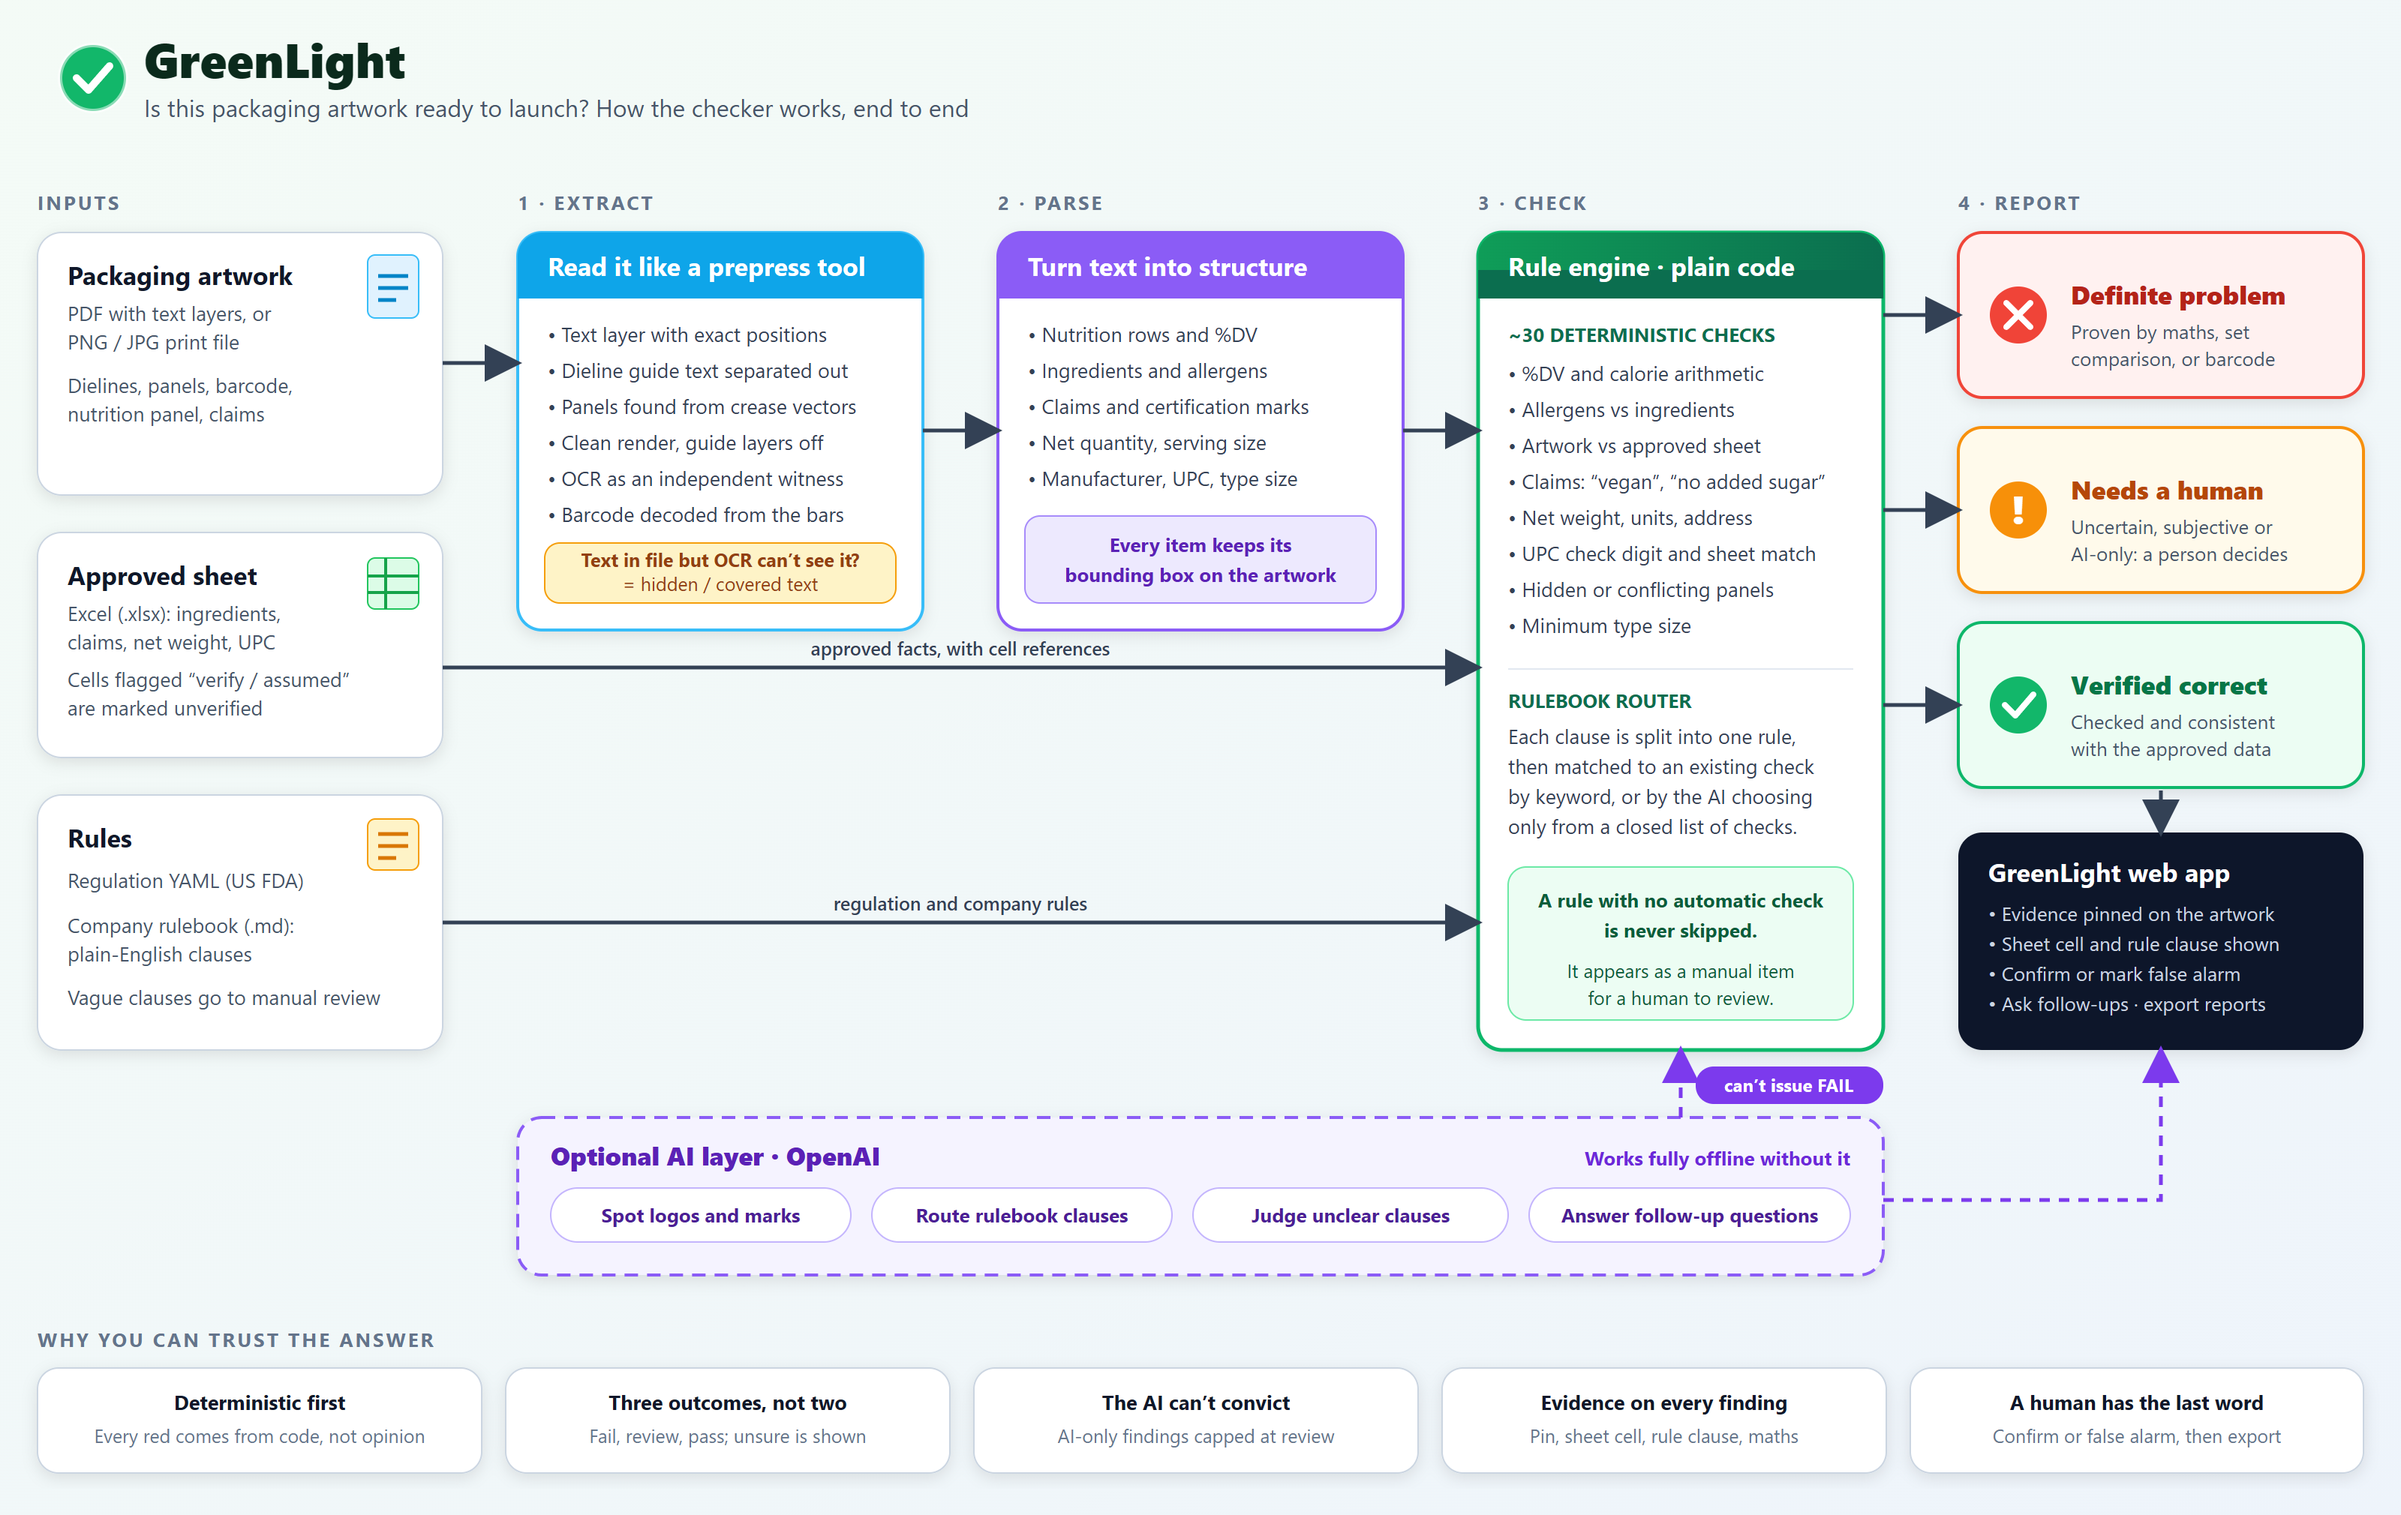
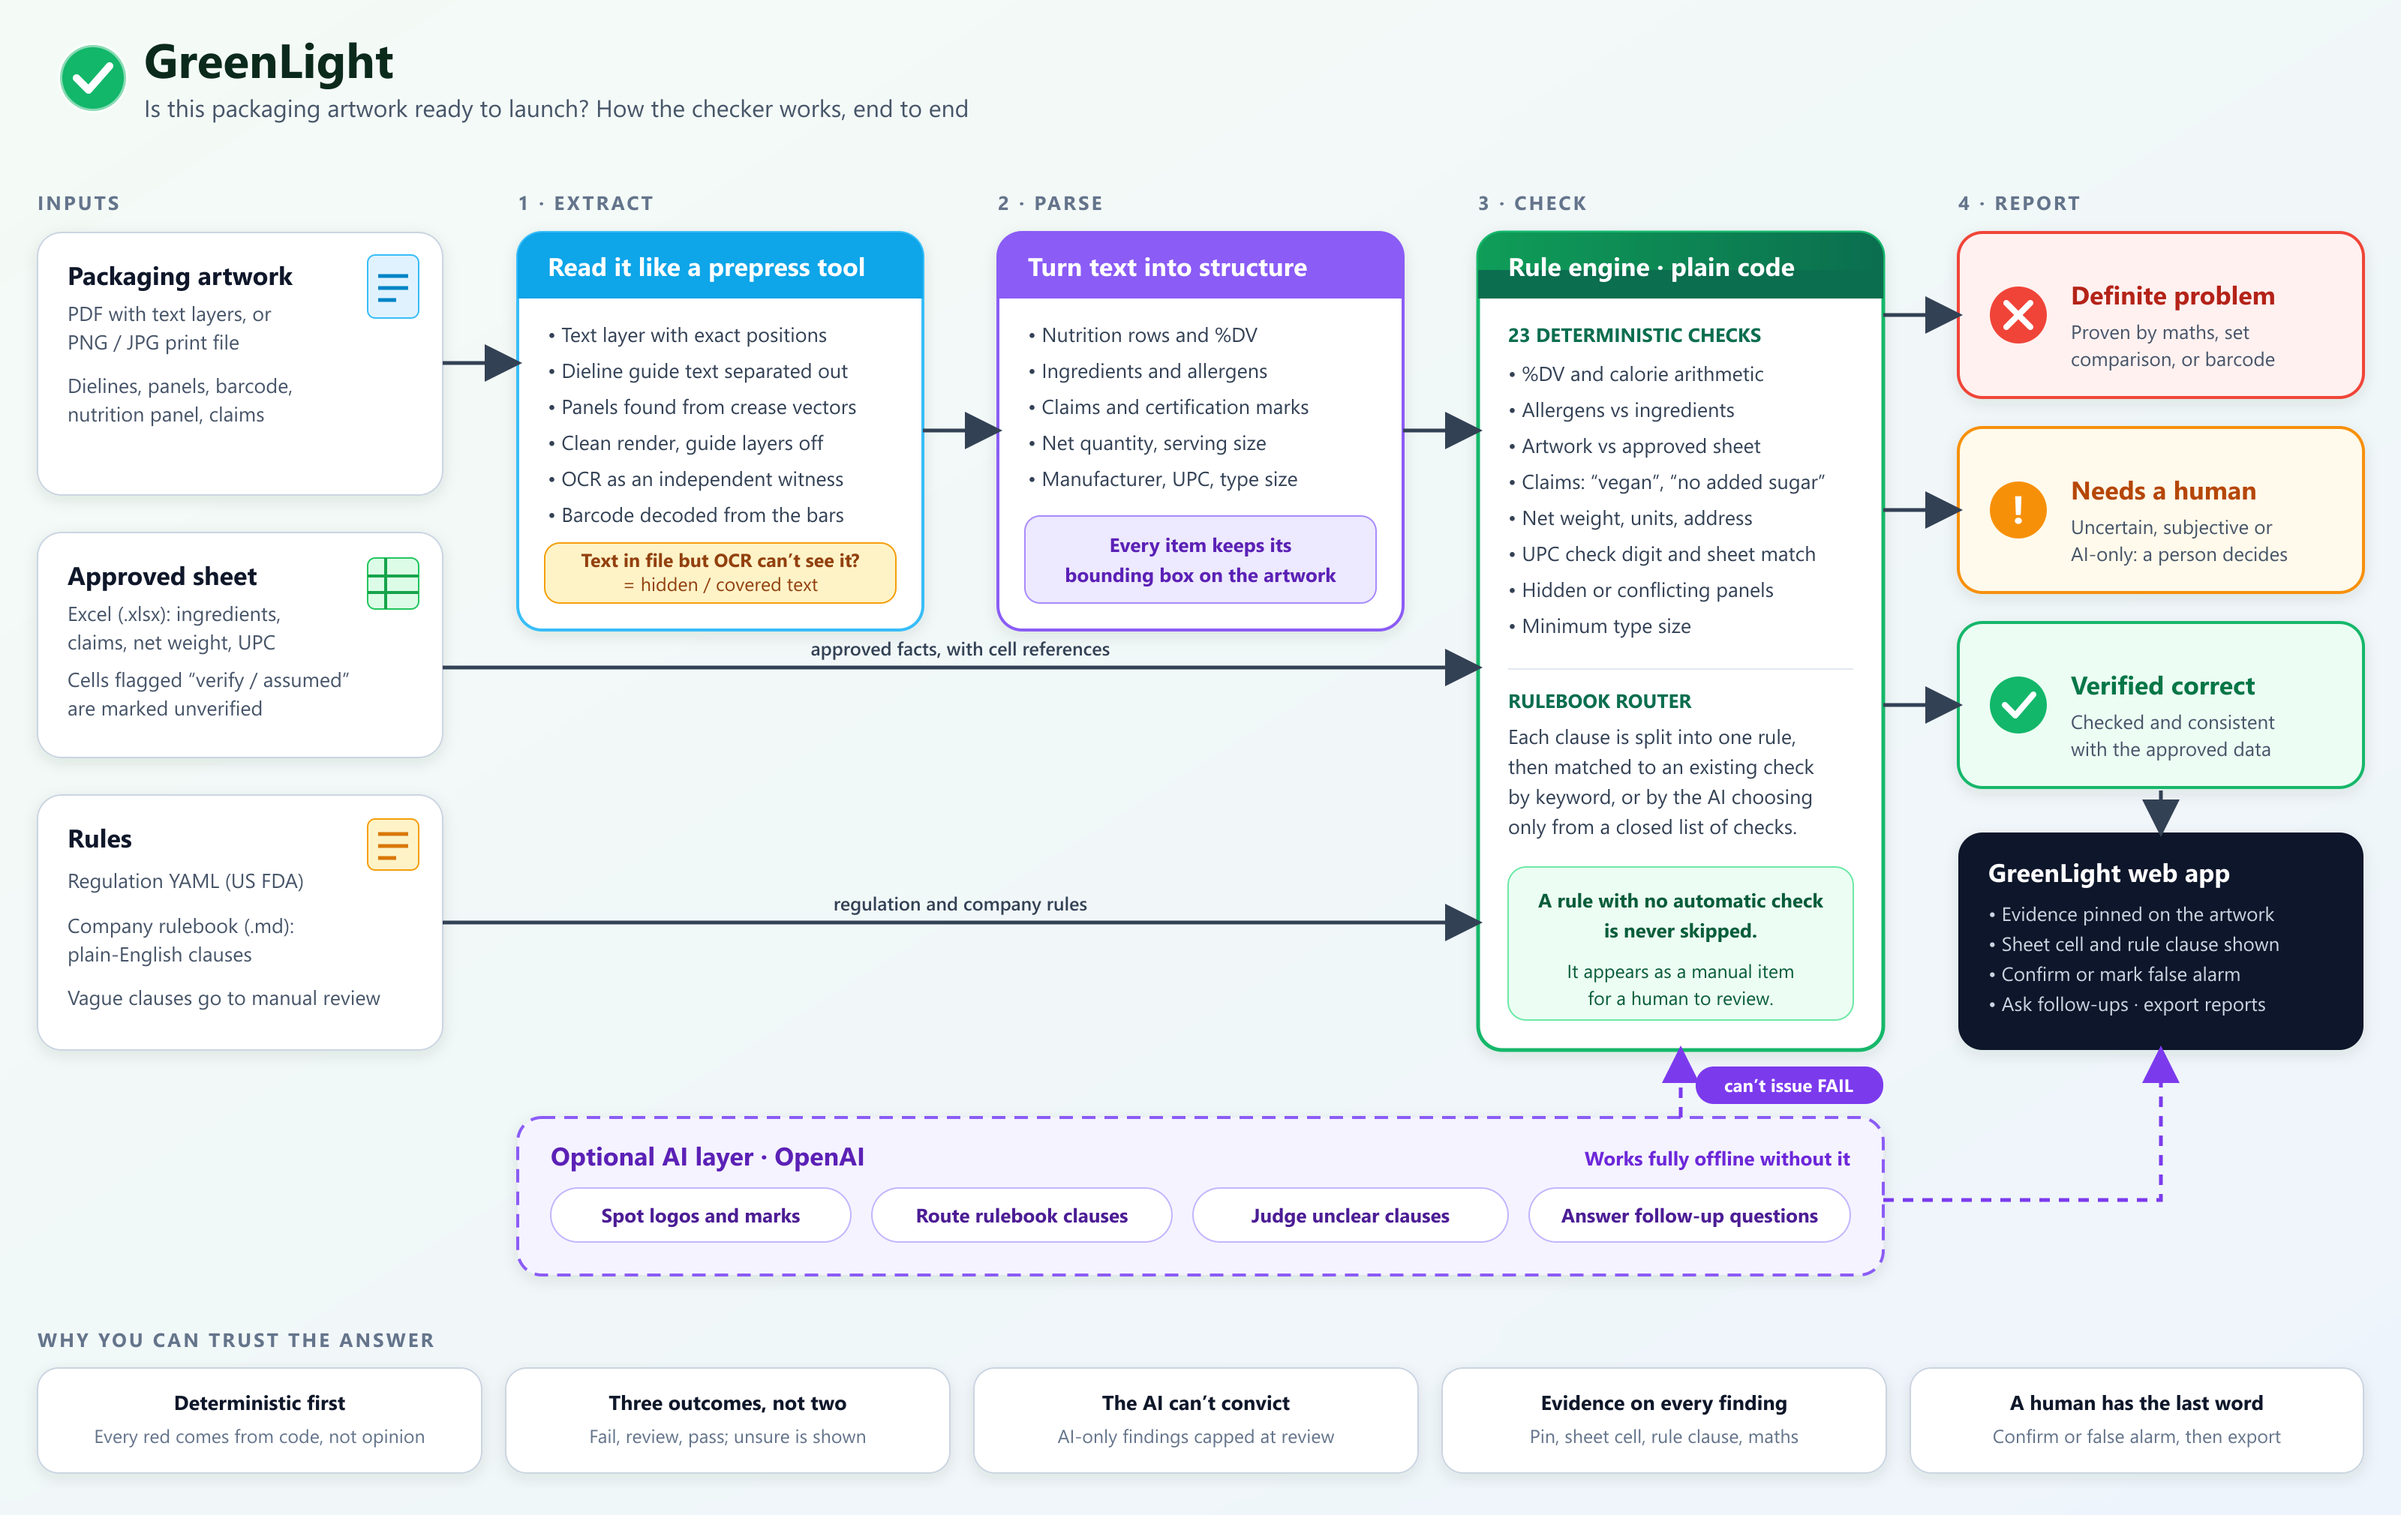
Docs: correct check count to 23 in architecture diagram

diff --git a/docs/ARCHITECTURE.md b/docs/ARCHITECTURE.md
@@ -19,7 +19,7 @@ flowchart LR
   end
   SH[Content sheet reader<br/>cell refs + 'unverified' flags]
   X --> P[2 Parse<br/>nutrition rows, ingredients, allergens,<br/>claims, net qty, marks - with bounding boxes]
-  P --> RE[3 Rule engine<br/>about 30 deterministic check primitives]
+  P --> RE[3 Rule engine<br/>23 deterministic check primitives]
   SH --> RE
   RE --> V{{Verdict per finding}}
   V -->|proven| F[FAIL definite problem]
